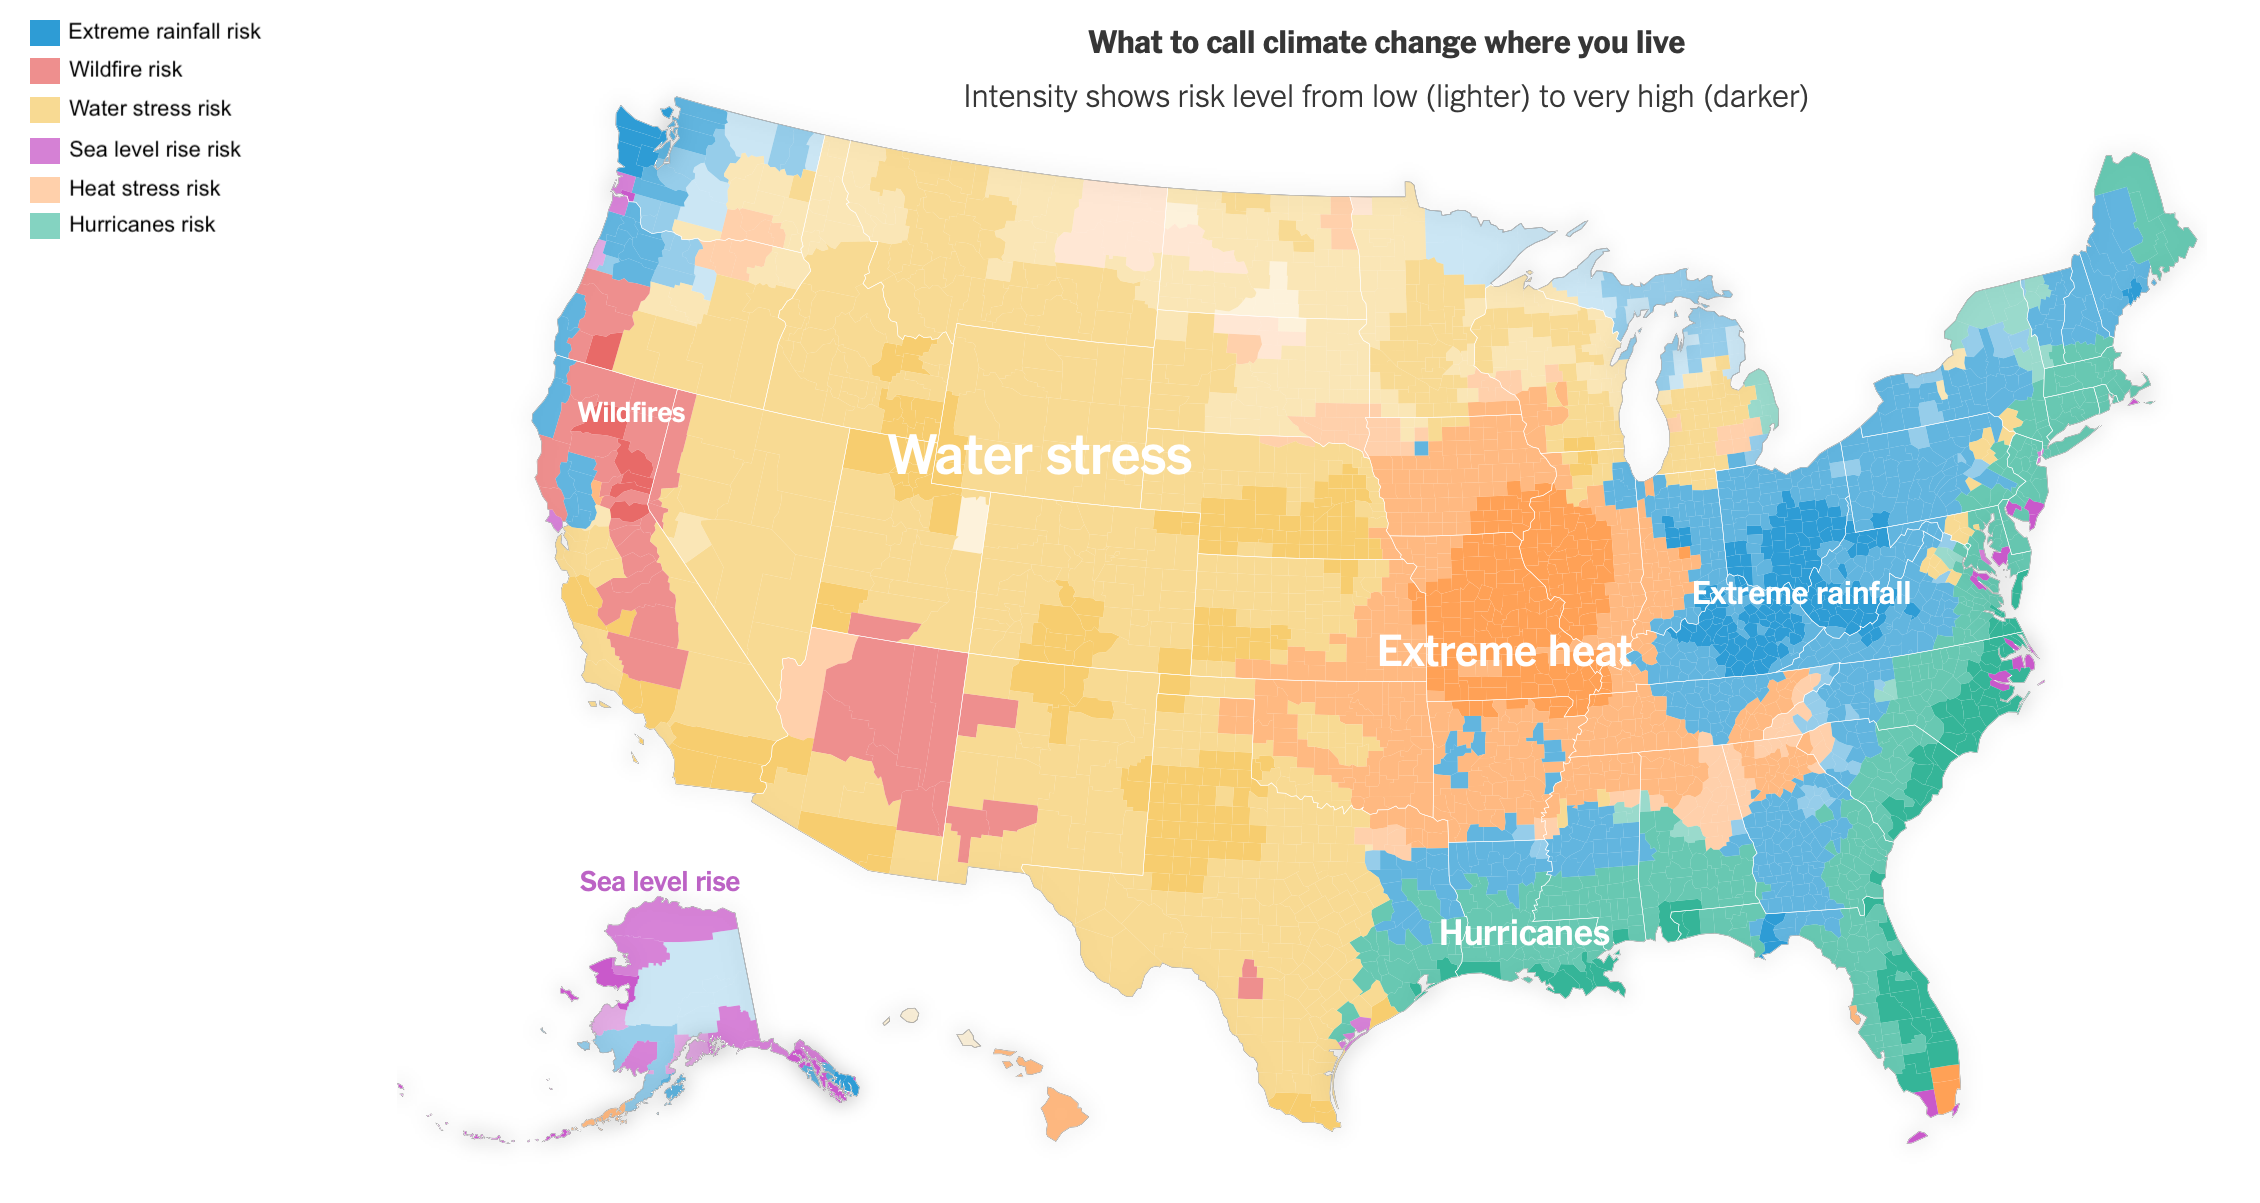
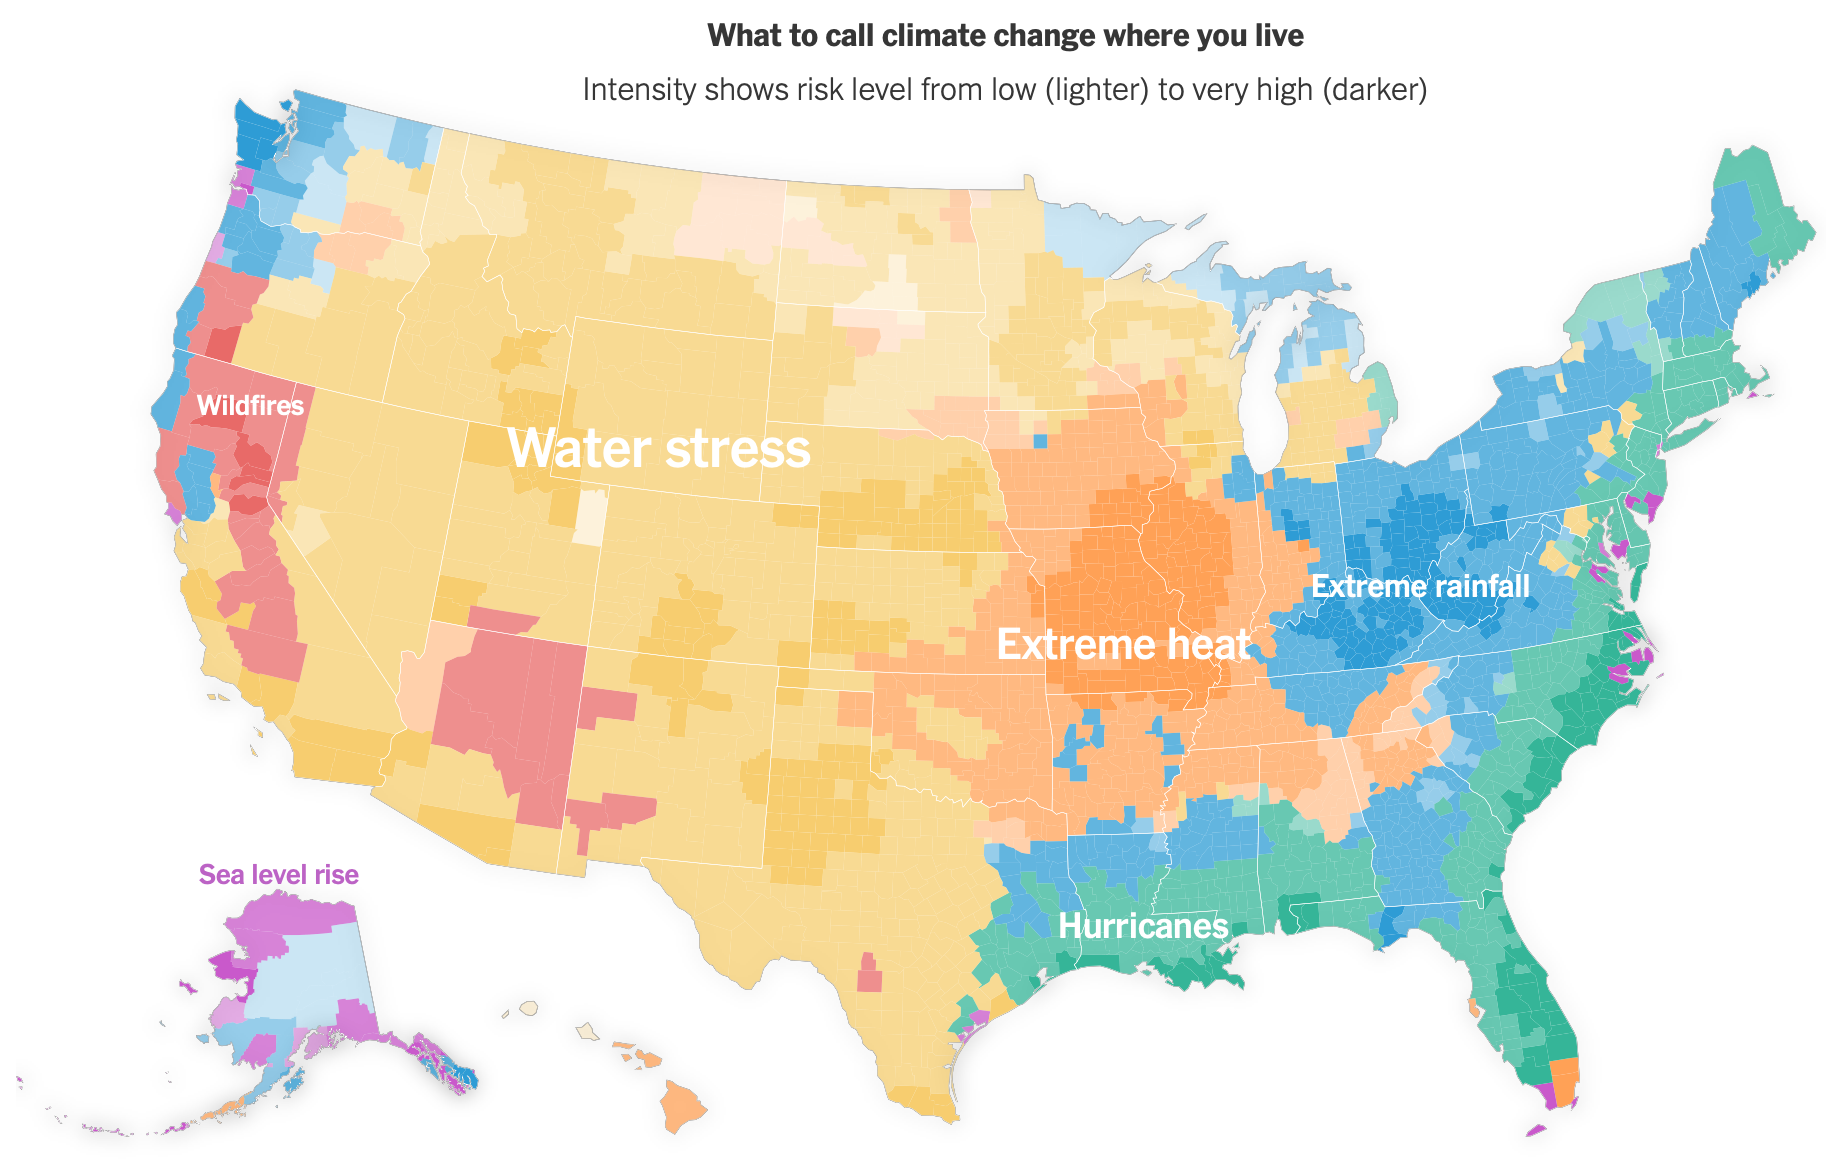
adding 3 images

diff --git a/src/components/ItemValidation.vue b/src/components/ItemValidation.vue
@@ -6,6 +6,8 @@
 
                     <div class="shrink-0">
                         <img src="@/assets/1.png" alt="Image 1" class="size-[580px] mt-10">
+                        <!-- <img src="@/assets/2.png" alt="Image 2" class="size-[580px] mt-10"> -->
+                        <!-- <img src="@/assets/3.png" alt="Image 3" class="w-[750px] mt-20 ml-5"> -->
                     </div>
 
                     <div class="max-w-2xl">

diff --git a/src/components/TrainingTask.vue b/src/components/TrainingTask.vue
@@ -52,7 +52,7 @@ export default {
     name: 'ConsentForm',
     data() {
         return {
-            practiceRating: null,
+            practiceRating: "3",
         };
     },
     methods: {
